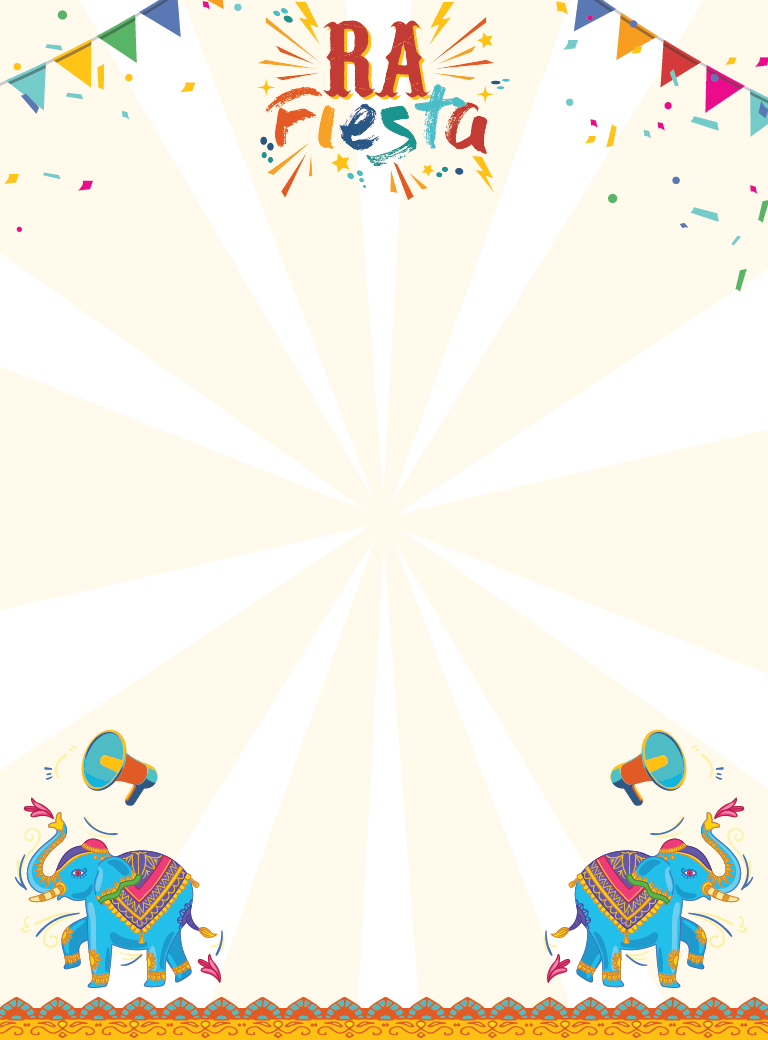
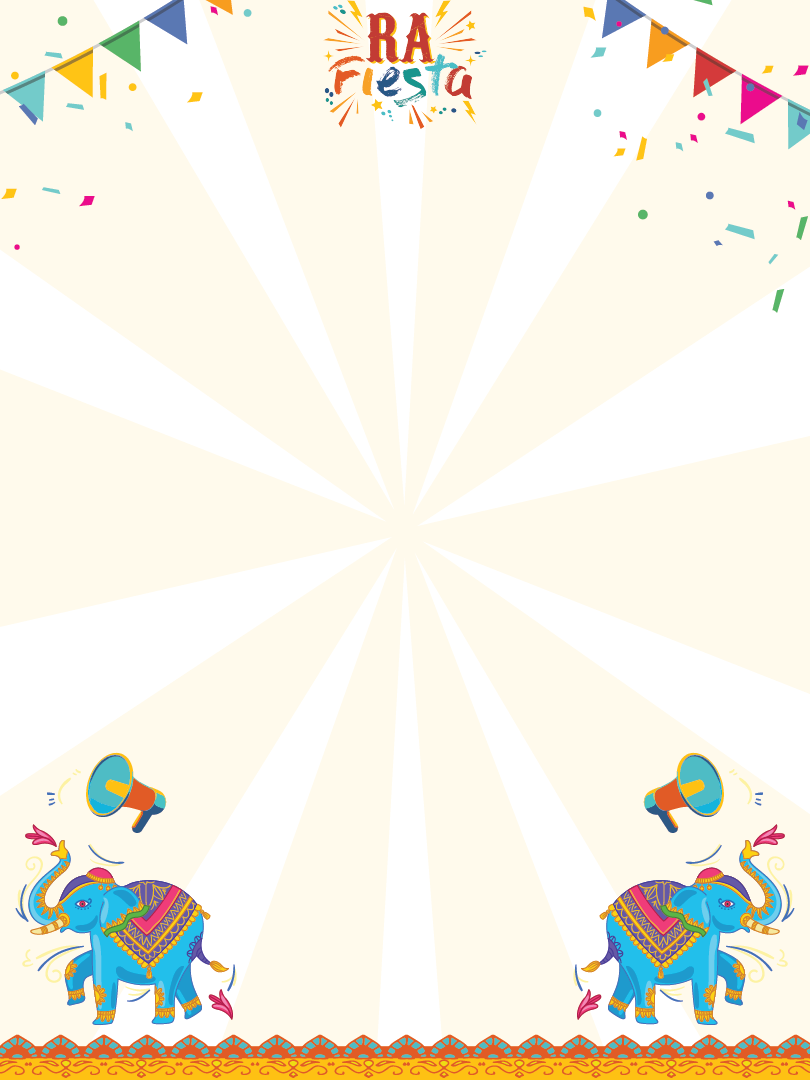
update bg

diff --git a/public/main.scss b/public/main.scss
@@ -10,7 +10,7 @@ main {
     background: url('./assets/background.png') no-repeat top center/cover;
     background-attachment: fixed;
 
-    @media screen and (max-width:768px) {
+    @media screen and (max-width:811px) {
         background: url('./assets/bg-mobile.png') no-repeat top center/cover;
     }
 }
